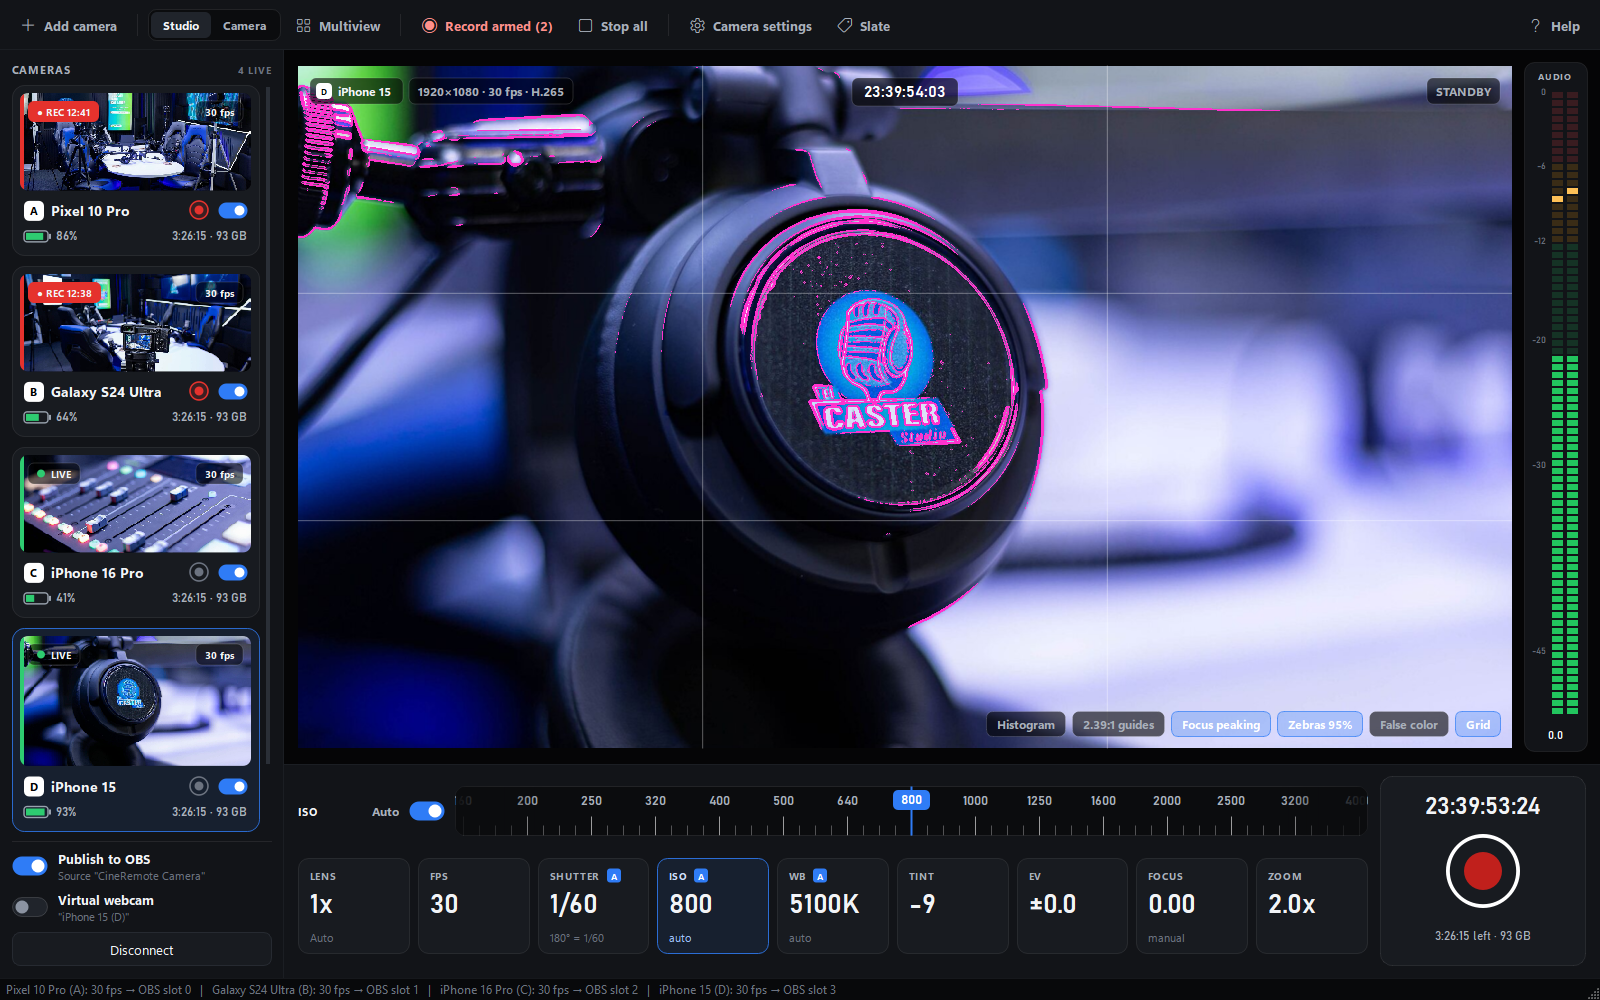
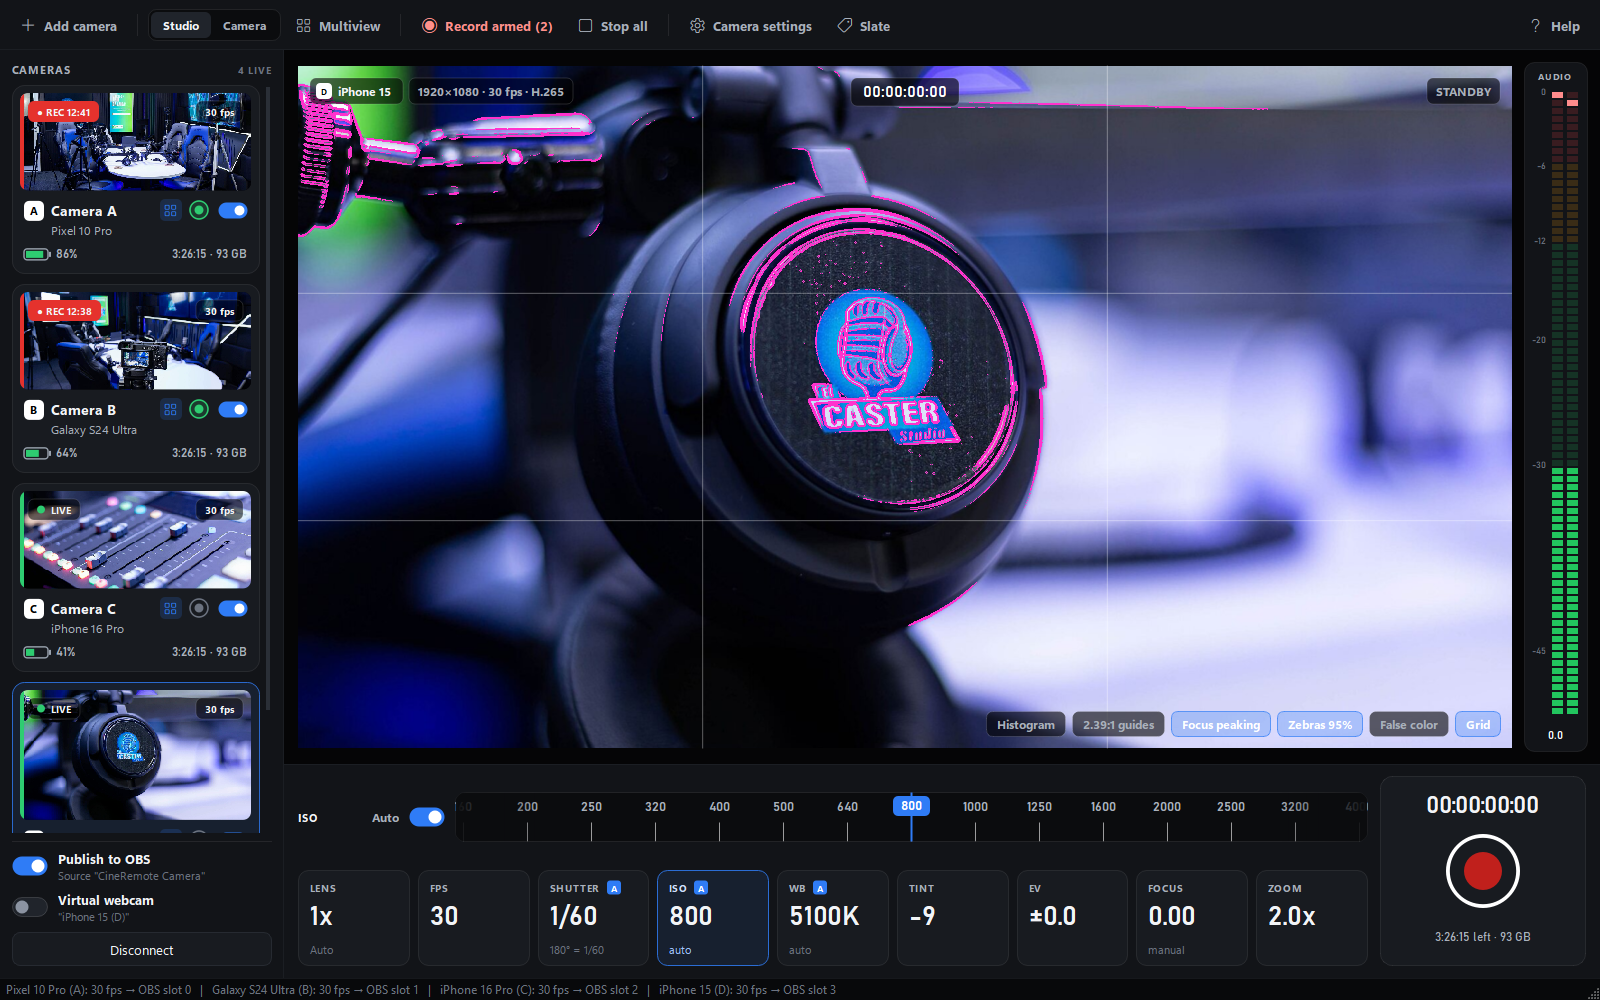
CineRemote 1.1.7: stereo audio, collapsible deck, lens buttons, multiview picks and focus

diff --git a/cineremote/__init__.py b/cineremote/__init__.py
@@ -1,2 +1,2 @@
 """CineRemote - remote control and live monitoring for the Blackmagic Camera app."""
-__version__ = "1.1.6"
+__version__ = "1.1.7"

diff --git a/CHANGELOG.md b/CHANGELOG.md
@@ -1,5 +1,20 @@
 # Changelog
 
+## 1.1.7
+
+- **Audio meters show real stereo.** CineRemote now asks the phone for stereo audio. Without that, some
+  phones sent mono and the left and right meters (and the audio in OBS) were always identical. Blackmagic
+  Camera already sent stereo; the CineRemote Camera Android app now streams stereo too.
+- **More room for the picture.** Click a setting tile again to close its ruler: the controls shrink and the
+  video gets bigger. CineRemote remembers which tile was open.
+- **Lens and frame rate are buttons** instead of a ruler, since they only have a few fixed values. The ISO and
+  shutter rulers only show marks for values you can actually pick, and clicking a value jumps to it.
+- **Choose which cameras are in the multiview** with the new grid icon on each camera card.
+- **Multiview:** double-click a camera's picture to set its focus point; the icon in its corner opens that
+  camera on its own.
+- **Camera cards:** the record-arm ring is now green (armed is not recording), and the camera name has the
+  phone's name under it.
+
 ## 1.1.6
 
 - **Tap to focus now focuses where you click.** With the phone in landscape (either way up), clicking the

diff --git a/README.md b/README.md
@@ -69,7 +69,7 @@ an iPhone 16 and an iPad Pro, controlled from Windows 11, Ubuntu 24.04 and macOS
 
 <table>
   <tr>
-    <td width="50%"><img src="docs/images/multiview.png" alt="Multiview of four cameras"><br><b>Multiview</b>: every connected phone at once, with recording state, battery and exposure for each.</td>
+    <td width="50%"><img src="docs/images/multiview.png" alt="Multiview of four cameras"><br><b>Multiview</b>: the phones you pick, all at once, with recording state, battery and exposure for each. Double-click one to set its focus point.</td>
     <td width="50%"><img src="docs/images/camera-view.png" alt="Camera view"><br><b>Camera view</b>: the phone app's own layout, for one camera at a time.</td>
   </tr>
   <tr>
